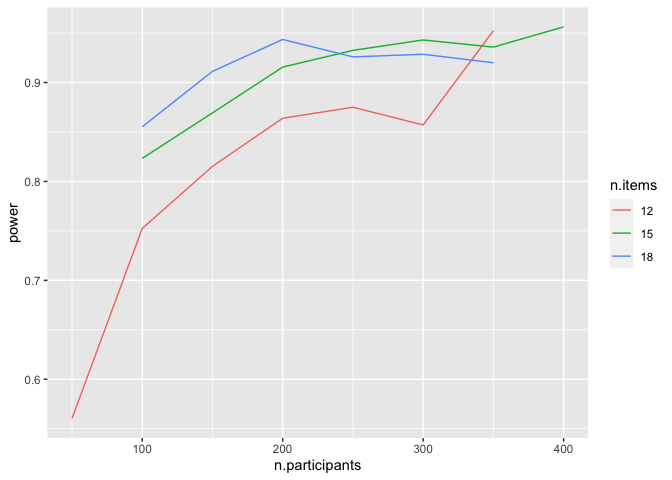
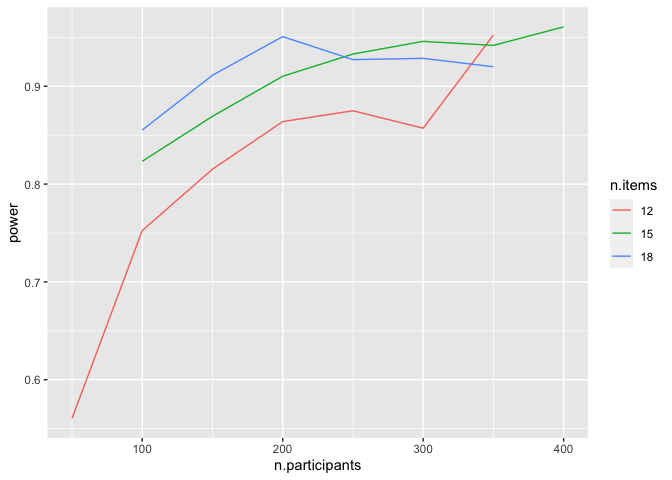
Analysis for third round of results

diff --git a/elephants-coord-power-writeup.md b/elephants-coord-power-writeup.md
@@ -23,13 +23,13 @@ for (trial in seq(100, 400, 50)) {
     if (trial == 400) next
     i <- i + 1
     dat <- calculate.power("./results", paste("elephants-coord-sim-", trial, "-items-", item, ".csv", sep=""))
-    datalist[[i]] <- dat
+    datalist[[i]] <- dat %>% mutate(reused.items = FALSE)
   }
 }
 for (trial in seq(50, 250, 50)) {
   i <- i + 1
   dat <- calculate.power("./results", paste("elephants-coord-sim-", trial, ".csv", sep="")) %>% mutate(n.items = 12)
-  datalist[[i]] <- dat
+  datalist[[i]] <- dat %>% mutate(reused.items = TRUE)
 }
 for (trial in seq(100, 450, 50)) {
   for (item in seq(15, 21, 3)) {
@@ -37,7 +37,17 @@ for (trial in seq(100, 450, 50)) {
     file.name <- paste("./results_2", paste("elephants-coord-sim-", trial, "-items-", item, ".csv", sep=""), sep="/")
     if (file.exists(file.name)) {
       dat <- calculate.power("./results_2", paste("elephants-coord-sim-", trial, "-items-", item, ".csv", sep=""))
-      datalist[[i]] <- dat
+      datalist[[i]] <- dat %>% mutate(reused.items = FALSE)
+    }
+  }
+}
+for (trial in seq(200, 450, 50)) {
+  for (item in seq(15, 21, 3)) {
+    i <- i + 1
+    file.name <- paste("./results_3", paste("elephants-coord-sim-", trial, "-items-", item, ".csv", sep=""), sep="/")
+    if (file.exists(file.name)) {
+      dat <- calculate.power("./results_3", paste("elephants-coord-sim-", trial, "-items-", item, ".csv", sep=""))
+      datalist[[i]] <- dat %>% mutate(reused.items = TRUE)
     }
   }
 }
@@ -58,18 +68,38 @@ power.data %>% group_by(n.participants,  n.items) %>% count()
     ##  6            150      15   482
     ##  7            150      18   124
     ##  8            200      12  1036
-    ##  9            200      15   474
-    ## 10            200      18   124
+    ##  9            200      15   925
+    ## 10            200      18   183
     ## 11            250      12   216
-    ## 12            250      15   474
-    ## 13            250      18    81
+    ## 12            250      15   925
+    ## 13            250      18   110
     ## 14            300      12   105
-    ## 15            300      15   474
+    ## 15            300      15   925
     ## 16            300      18    42
     ## 17            350      12   105
-    ## 18            350      15   374
+    ## 18            350      15   825
     ## 19            350      18    25
-    ## 20            400      15   160
+    ## 20            400      15   535
+
+``` r
+power.data %>% group_by(n.participants,  n.items, reused.items) %>% count()
+```
+
+    ## # A tibble: 31 x 4
+    ## # Groups:   n.participants, n.items, reused.items [31]
+    ##    n.participants n.items reused.items     n
+    ##             <int>   <dbl> <lgl>        <int>
+    ##  1             50      12 TRUE          1010
+    ##  2            100      12 FALSE          105
+    ##  3            100      12 TRUE          1010
+    ##  4            100      15 FALSE          515
+    ##  5            100      18 FALSE          152
+    ##  6            150      12 FALSE          105
+    ##  7            150      12 TRUE          1010
+    ##  8            150      15 FALSE          482
+    ##  9            150      18 FALSE          124
+    ## 10            200      12 FALSE          105
+    ## # … with 21 more rows
 
 ``` r
 power.data %>% mutate(n.items = factor(n.items)) %>% group_by(n.participants, n.items) %>% summarize(power=mean(achieved)) %>%
@@ -80,3 +110,14 @@ power.data %>% mutate(n.items = factor(n.items)) %>% group_by(n.participants, n.
     ## `summarise()` regrouping output by 'n.participants' (override with `.groups` argument)
 
 ![](elephants-coord-power-writeup_files/figure-gfm/unnamed-chunk-2-1.png)<!-- -->
+
+``` r
+power.data %>% mutate(n.items = factor(n.items)) %>% group_by(n.participants, n.items, reused.items) %>% summarize(power=mean(achieved)) %>%
+  ggplot(aes(x=n.participants, y=power, color=n.items)) +
+  geom_line(aes(group=n.items)) +
+  facet_wrap(~reused.items)
+```
+
+    ## `summarise()` regrouping output by 'n.participants', 'n.items' (override with `.groups` argument)
+
+![](elephants-coord-power-writeup_files/figure-gfm/unnamed-chunk-2-2.png)<!-- -->
